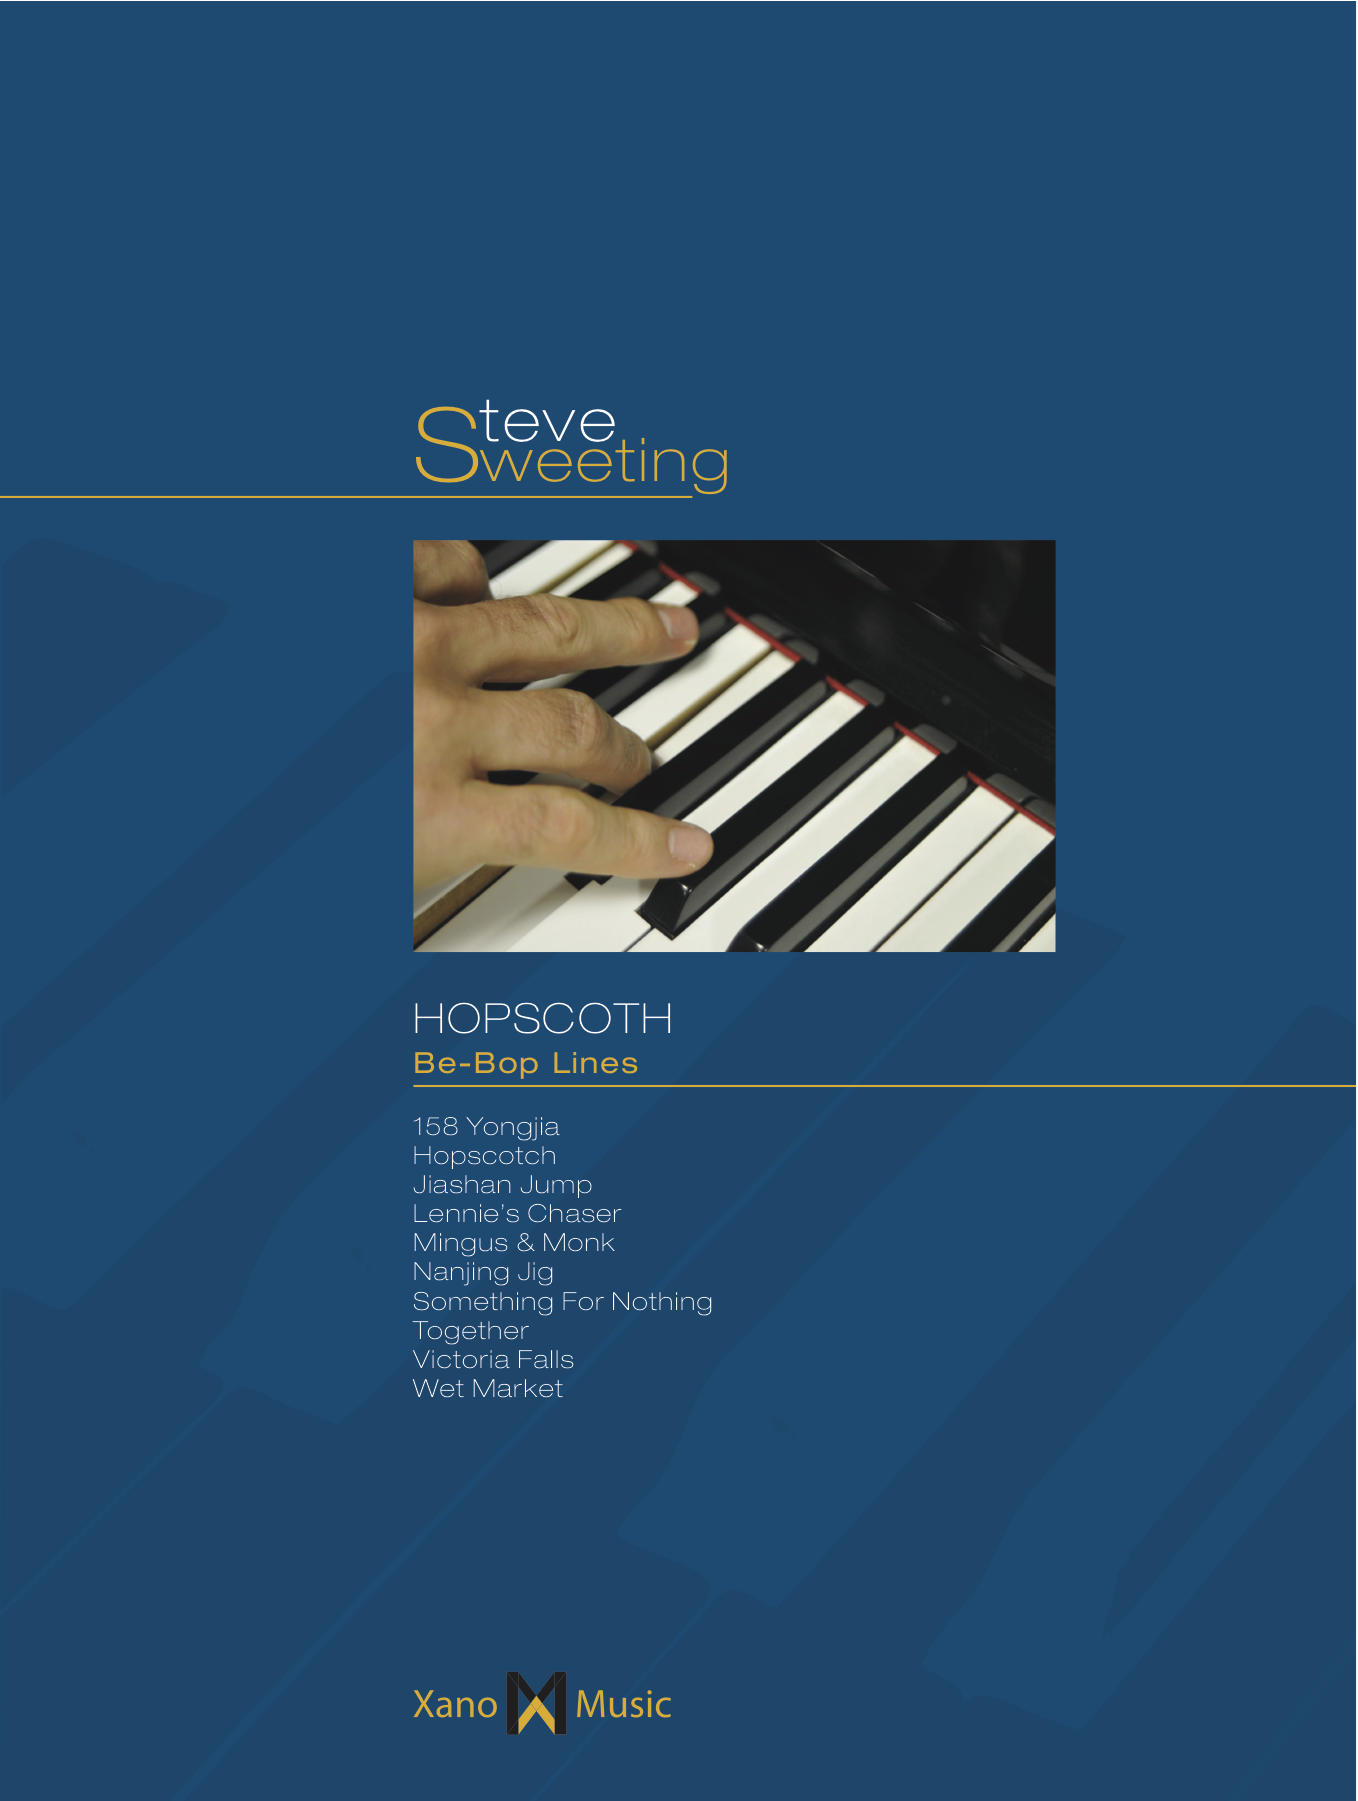
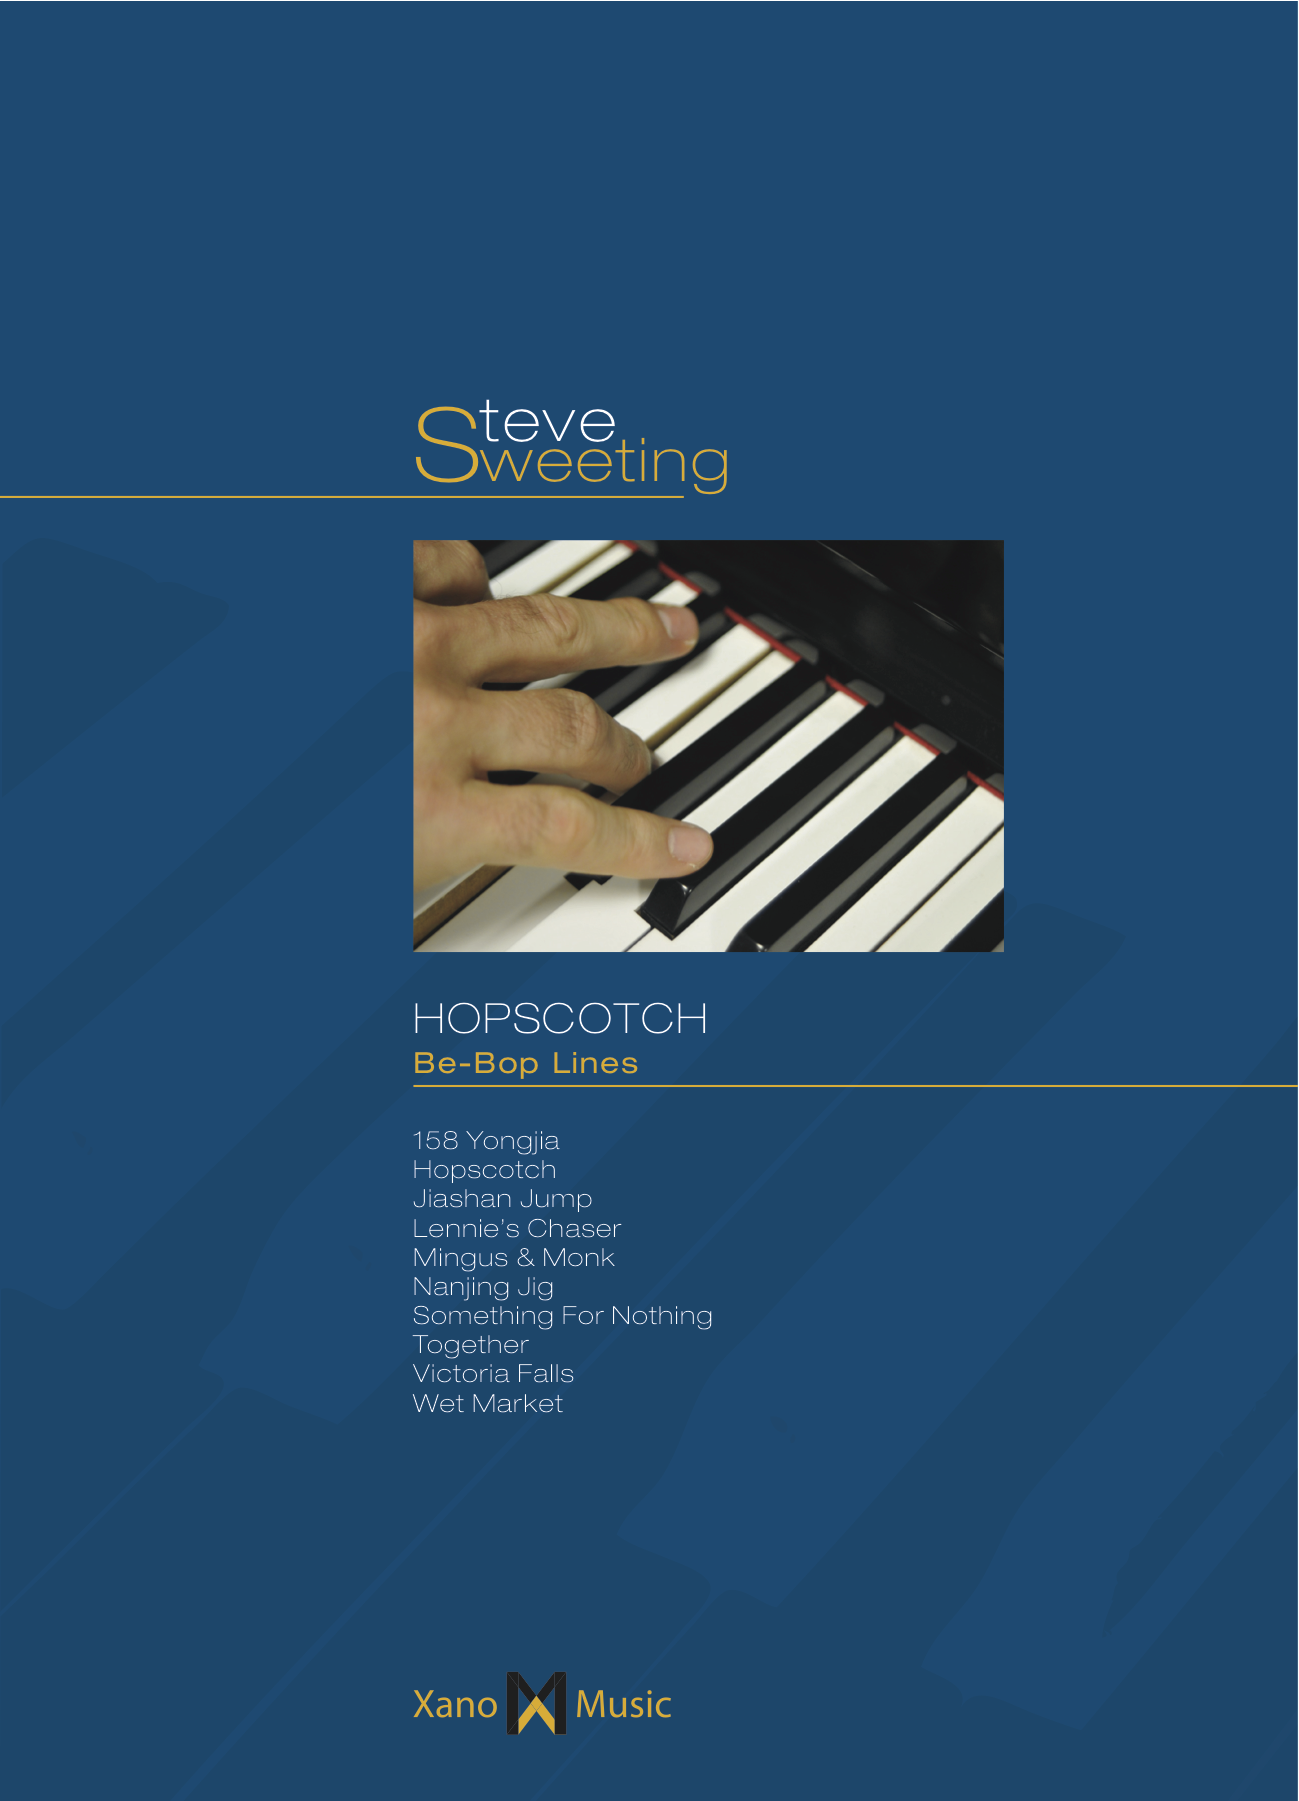
fixed hopscoth cover and added titles

Changed region(s): [[0.2771, 0.2177, 0.8006, 0.5286], [0.3079, 0.5597, 0.5235, 0.7773], [0.3079, 0.9328, 0.5235, 0.9639]]

diff --git a/contact.html b/contact.html
@@ -3,48 +3,44 @@
 
 <head>
   <title>Steve Sweeting</title>
-  <meta name="robots" content="noindex">
-  <meta http-equiv="Refresh" content="0; url=x04dnuorgyalp.html">
   <meta name="description" content="website description" />
   <meta name="keywords" content="website keywords, website keywords" />
   <meta http-equiv="content-type" content="text/html; charset=UTF-8" />
-  <link rel="stylesheet" type="text/css" href="../css/style.css" />
+  <link rel="stylesheet" type="text/css" href="css/style.css" />
   <!-- modernizr enables HTML5 elements and feature detects -->
-  <script type="text/javascript" src="../js/modernizr-1.5.min.js"></script>
+  <script type="text/javascript" src="js/modernizr-1.5.min.js"></script>
 </head>
 
 <body>
   <div id="main">
     <header>
-      <div id="logo"><a href="http://stevesweeting.com"><img src="../images/logo-red.png"/></a></div>
+      <div id="logo"><a href="http://stevesweeting.com"><img src="images/logo-red.png"/></a></div>
       <nav>
         <ul class="lavaLampWithImage" id="lava_menu">
-          <li class="current"><a href="../index.html">the music</a></li>
-          <li><a href="../about.html">about</a></li>
-          <li><a href="../buy.html">buy</a></li>
-          <li><a href="../contact.html">contact</a></li>
+          <li class="current"><a href="index.html">the music</a></li>
+          <li><a href="about.html">about</a></li>
+          <li><a href="buy.html">buy</a></li>
+          <li><a href="contact.html">contact</a></li>
         </ul>
       </nav>
     </header>
     <div id="site_content">
-      
     <br><br><br>
-      <center>
-        You should be redirected shortly to the download page... If not click <a href="x04dnuorgyalp.html">here</a>.
-      </center>
+      <center>Contact info coming soon...</center>
     <br><br><br>
+    </div>
 
     <footer>
       <p><a href="index.html">the music</a> | <a href="about.html">about me</a> | <a href="contact.php">contact</a></p>
       <p>&copy; 2013 Steve Sweeting. All Rights Reserved. | <a href="http://nicksweeting.com">design by nicksweeting.com</a></p>
-      <img width="150px" src="../images/xano-music.png">
+      <img width="150px" src="images/xano-music.png">
     </footer>
   </div>
   <!-- javascript at the bottom for fast page loading -->
-  <script type="text/javascript" src="../js/jquery.min.js"></script>
-  <script type="text/javascript" src="../js/jquery.easing.min.js"></script>
-  <script type="text/javascript" src="../js/jquery.lavalamp.min.js"></script>
-  <script type="text/javascript" src="../js/jquery.kwicks-1.5.1.js"></script>
+  <script type="text/javascript" src="js/jquery.min.js"></script>
+  <script type="text/javascript" src="js/jquery.easing.min.js"></script>
+  <script type="text/javascript" src="js/jquery.lavalamp.min.js"></script>
+  <script type="text/javascript" src="js/jquery.kwicks-1.5.1.js"></script>
   <script type="text/javascript">
     $(document).ready(function() {
       $('#images').kwicks({

diff --git a/books/book6.html b/books/book6.html
@@ -25,6 +25,7 @@
       </nav>
     </header>
     <div id="site_content">
+    <h1 class="book-title">Book 6: Hua Fei Hua – Jazz Arrangements <br>of Chinese Folk Songs</h1>
       <div class="bandcamp-player">
         <iframe style="border: 0; width: 350px; height: 470px;" src="http://bandcamp.com/EmbeddedPlayer/album=1222809907/size=large/bgcol=ffffff/linkcol=0687f5/notracklist=true/transparent=true/" seamless><a href="http://thesquash1.bandcamp.com/album/hua-fei-hua-jazz-arrangements-of-chinese-folk-songs">Hua Fei Hua – Jazz Arrangements of Chinese Folk Songs by Steve Sweeting and Coco Zhao</a></iframe>
       </div>

diff --git a/books/book7.html b/books/book7.html
@@ -25,6 +25,7 @@
       </nav>
     </header>
     <div id="site_content">
+    <h1 class="book-title">Book 7: Halfway 'Round the World – Shanghai Jazz Songs</h1>
       <div class="bandcamp-player">
         <iframe style="border: 0; width: 350px; height: 470px;" src="http://bandcamp.com/EmbeddedPlayer/album=2060025659/size=large/bgcol=ffffff/linkcol=0687f5/notracklist=true/transparent=true/" seamless><a href="http://thesquash1.bandcamp.com/album/halfway-round-the-world-shanghai-jazz-songs">Halfway &#39;Round the World – Shanghai Jazz Songs by Steve Sweeting</a></iframe>
       </div>

diff --git a/books/book3.html b/books/book3.html
@@ -25,6 +25,7 @@
       </nav>
     </header>
     <div id="site_content">
+    <h1 class="book-title">Book 3: Waltzes to a Muse – Songs in 3/4 Time</h1>
       <div class="bandcamp-player">
         <iframe style="border: 0; width: 350px; height: 470px;" src="http://bandcamp.com/EmbeddedPlayer/album=287004540/size=large/bgcol=ffffff/linkcol=0687f5/notracklist=true/transparent=true/" seamless><a href="http://thesquash1.bandcamp.com/album/waltzes-to-a-muse-songs-in-3-4-time">Waltzes to a Muse – Songs in 3/4 Time by Steve Sweeting</a></iframe>
       </div>

diff --git a/books/book4.html b/books/book4.html
@@ -25,6 +25,7 @@
       </nav>
     </header>
     <div id="site_content">
+    <h1 class="book-title">Book 4: Playground – Eight Pieces for Piano</h1>
       <div class="bandcamp-player">
         <iframe style="border: 0; width: 350px; height: 470px;" src="http://bandcamp.com/EmbeddedPlayer/album=1875502010/size=large/bgcol=ffffff/linkcol=0687f5/notracklist=true/transparent=true/" seamless><a href="http://thesquash1.bandcamp.com/album/playground-eight-pieces-for-piano">Playground – Eight Pieces for Piano by Steve Sweeting</a></iframe>
       </div>

diff --git a/books/book8.html b/books/book8.html
@@ -25,6 +25,7 @@
       </nav>
     </header>
     <div id="site_content">
+    <h1 class="book-title">Book 8: Songs from the Hills – Roots Music</h1>
       <div class="bandcamp-player">
         <iframe style="border: 0; width: 350px; height: 470px;" src="http://bandcamp.com/EmbeddedPlayer/album=35840027/size=large/bgcol=ffffff/linkcol=0687f5/notracklist=true/transparent=true/" seamless><a href="http://thesquash1.bandcamp.com/album/songs-from-the-hills-roots-music">Songs from the Hills – Roots Music by Steve Sweeting</a></iframe>
       </div>

diff --git a/books/book5.html b/books/book5.html
@@ -25,6 +25,7 @@
       </nav>
     </header>
     <div id="site_content">
+    <h1 class="book-title">Book 5: Let it All Go – Songs With Words</h1>
       <div class="bandcamp-player">
         <iframe style="border: 0; width: 350px; height: 470px;" src="http://bandcamp.com/EmbeddedPlayer/album=2014931658/size=large/bgcol=ffffff/linkcol=0687f5/notracklist=true/transparent=true/" seamless><a href="http://thesquash1.bandcamp.com/album/let-it-all-go-songs-with-words">Let it All Go – Songs With Words by Steve Sweeting</a></iframe>
       </div>

diff --git a/books/purchase_book_1.html b/books/purchase_book_1.html
@@ -20,9 +20,9 @@
       <nav>
         <ul class="lavaLampWithImage" id="lava_menu">
           <li class="current"><a href="../index.html">the music</a></li>
-          <li><a href="../examples.html">about</a></li>
-          <li><a href="../page.html">buy</a></li>
-          <li><a href="../contact.php">contact</a></li>
+          <li><a href="../about.html">about</a></li>
+          <li><a href="../buy.html">buy</a></li>
+          <li><a href="../contact.html">contact</a></li>
         </ul>
       </nav>
     </header>

diff --git a/books/purchase_book_2.html b/books/purchase_book_2.html
@@ -20,9 +20,9 @@
       <nav>
         <ul class="lavaLampWithImage" id="lava_menu">
           <li class="current"><a href="../index.html">the music</a></li>
-          <li><a href="../examples.html">about</a></li>
-          <li><a href="../page.html">buy</a></li>
-          <li><a href="../contact.php">contact</a></li>
+          <li><a href="../about.html">about</a></li>
+          <li><a href="../buy.html">buy</a></li>
+          <li><a href="../contact.html">contact</a></li>
         </ul>
       </nav>
     </header>

diff --git a/books/purchase_book_3.html b/books/purchase_book_3.html
@@ -20,9 +20,9 @@
       <nav>
         <ul class="lavaLampWithImage" id="lava_menu">
           <li class="current"><a href="../index.html">the music</a></li>
-          <li><a href="../examples.html">about</a></li>
-          <li><a href="../page.html">buy</a></li>
-          <li><a href="../contact.php">contact</a></li>
+          <li><a href="../about.html">about</a></li>
+          <li><a href="../buy.html">buy</a></li>
+          <li><a href="../contact.html">contact</a></li>
         </ul>
       </nav>
     </header>

diff --git a/books/purchase_book_5.html b/books/purchase_book_5.html
@@ -20,9 +20,9 @@
       <nav>
         <ul class="lavaLampWithImage" id="lava_menu">
           <li class="current"><a href="../index.html">the music</a></li>
-          <li><a href="../examples.html">about</a></li>
-          <li><a href="../page.html">buy</a></li>
-          <li><a href="../contact.php">contact</a></li>
+          <li><a href="../about.html">about</a></li>
+          <li><a href="../buy.html">buy</a></li>
+          <li><a href="../contact.html">contact</a></li>
         </ul>
       </nav>
     </header>

diff --git a/books/purchase_book_6.html b/books/purchase_book_6.html
@@ -20,9 +20,9 @@
       <nav>
         <ul class="lavaLampWithImage" id="lava_menu">
           <li class="current"><a href="../index.html">the music</a></li>
-          <li><a href="../examples.html">about</a></li>
-          <li><a href="../page.html">buy</a></li>
-          <li><a href="../contact.php">contact</a></li>
+          <li><a href="../about.html">about</a></li>
+          <li><a href="../buy.html">buy</a></li>
+          <li><a href="../contact.html">contact</a></li>
         </ul>
       </nav>
     </header>
